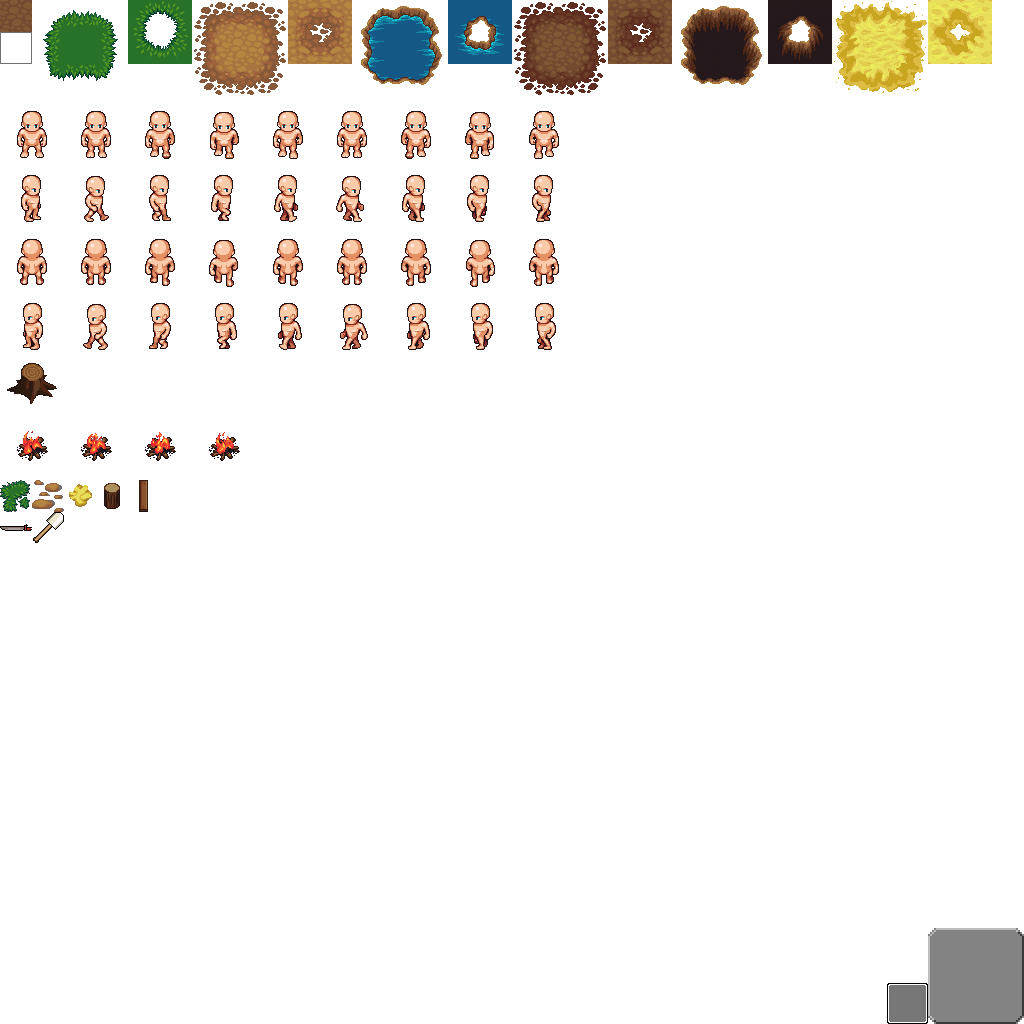
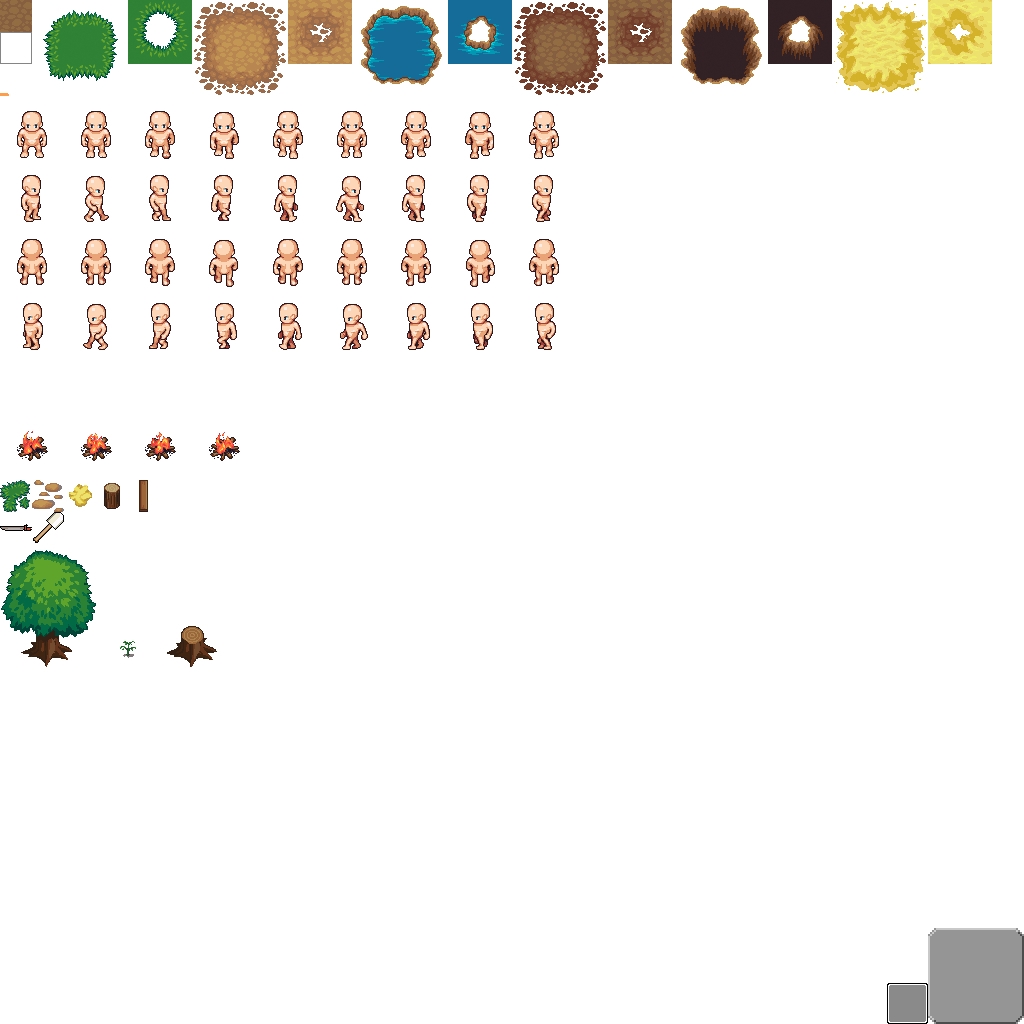
Can plant a sapling that grows into a tree trunk...  hehe:)

Changed region(s): [[0.0, 0.5312, 0.0938, 0.6562], [0.1562, 0.5938, 0.2188, 0.6562], [0.0, 0.3438, 0.0625, 0.4062]]

diff --git a/src/com/madbros/adventurecraft/Textures.java b/src/com/madbros/adventurecraft/Textures.java
@@ -26,6 +26,7 @@ public class Textures {
 	public static Sprite[] waterTextures;
 	public static Sprite[] holeTextures;
 	public static Sprite[] sandTextures;
+	public static Sprite[] saplingTexture;
 	
 	public static Sprite[] characterAnimations;
 	public static Sprite[] fireAnimationTextures;
@@ -33,6 +34,8 @@ public class Textures {
 	public static Sprite[][] menuTextures;
 	public static Sprite cellTexture;
 	public static Sprite selectTexture;
+	public static Sprite saplingItemTexture;
+
 	
 	public static Sprite grassSeedTexture;
 	public static Sprite earthClumpTexture;
@@ -92,8 +95,9 @@ public class Textures {
 				}
 			}
 			
+			saplingTexture = new Sprite[]{new Sprite(atlas, 96, 608, 64, 64)};
 			treeTextures = new Sprite[1];
-			treeTextures[0] = new Sprite(atlas, 0, 352, 64, 64);
+			treeTextures[0] = new Sprite(atlas, 160, 608, 64, 64);
 			
 			menuTextures = new Sprite[3][3];
 			for(int i = 0; i < 3; i++) {
@@ -137,6 +141,7 @@ public class Textures {
 			sandClumpTexture = new Sprite(atlas, TEXTURE_SIZE*2, 480, TEXTURE_SIZE, TEXTURE_SIZE);
 			logTexture = new Sprite(atlas, TEXTURE_SIZE*3, 480, TEXTURE_SIZE, TEXTURE_SIZE);
 			plankTexture = new Sprite(atlas, TEXTURE_SIZE*4, 480, TEXTURE_SIZE, TEXTURE_SIZE);
+			saplingItemTexture = new Sprite(atlas, 112, 624, TEXTURE_SIZE, TEXTURE_SIZE);
 			
 			swordTexture = new Sprite(atlas, TEXTURE_SIZE*0, 512, TEXTURE_SIZE, TEXTURE_SIZE);
 			shovelTexture = new Sprite(atlas, TEXTURE_SIZE*1, 512, TEXTURE_SIZE, TEXTURE_SIZE);

diff --git a/src/com/madbros/adventurecraft/Constants.java b/src/com/madbros/adventurecraft/Constants.java
@@ -92,6 +92,7 @@ public class Constants {
 	public static final int TREE = 6;
 	public static final int HOLE = 7;
 	public static final int DARK_DIRT = 8;
+	public static final int SAPLING = 9;
 	
 	//Block Layers
 	public static final int DARK_DIRT_LAYER = 0;
@@ -126,6 +127,7 @@ public class Constants {
 	public static final int SHOVEL = 6;
 	
 	public static final int SWORD = 7;
+	public static final int SAPLING_ITEM = 8;
 	
 	//Debugger
 	public static final int	BYTES_IN_MEGABYTE = 1048576;
@@ -173,6 +175,7 @@ public class Constants {
 		ITEM_HASH.put(PLANK, new Plank());
 		ITEM_HASH.put(SHOVEL, new Shovel());
 		ITEM_HASH.put(SWORD, new Sword());
+		ITEM_HASH.put(SAPLING_ITEM, new Sapling());
 		
 		TILE_HASH.put(GRASS, new GrassTile());
 		TILE_HASH.put(DIRT, new DirtTile());
@@ -181,6 +184,7 @@ public class Constants {
 		TILE_HASH.put(DARK_DIRT, new DarkDirtTile());
 		TILE_HASH.put(SAND, new SandTile());
 		TILE_HASH.put(AIR, new NoTile());
+		TILE_HASH.put(SAPLING, new SaplingTile());
 		
 		TOP_LEFT_AUTO_TILE_HASH.put(0, TOP_LEFT_TILE);
 		TOP_LEFT_AUTO_TILE_HASH.put(1, TOP_LEFT_TILE);

diff --git a/src/com/madbros/adventurecraft/Items/Sapling.java b/src/com/madbros/adventurecraft/Items/Sapling.java
@@ -1,0 +1,37 @@
+package com.madbros.adventurecraft.Items;
+
+import static com.madbros.adventurecraft.Constants.*;
+
+
+import com.madbros.adventurecraft.Block;
+import com.madbros.adventurecraft.Textures;
+//import com.madbros.adventurecraft.TileTypes.NoTile;
+import com.madbros.adventurecraft.TileTypes.Tile;
+
+public class Sapling extends BlockItem {
+	public Sapling() {
+		id = SAPLING_ITEM;
+		tileId = SAPLING;
+		placeableTileIds = new int[]{GRASS};
+		texture = Textures.saplingItemTexture;
+	}
+	
+	@Override
+	public Sapling createNew() {
+		return new Sapling();
+	}
+
+	@Override
+	public void placeTile(Block hB, Tile tile) {
+		hB.layers[OBJECT_LAYER] = tile;
+//		if(hB.layers[WATER_LAYER].id == HOLE) {
+//			hB.layers[GRASS_LAYER] = tile;
+//			hB.layers[WATER_LAYER] = new NoTile();
+//			hB.layers[LIGHT_DIRT_LAYER] = new NoTile();
+//			hB.collisionTile = null;
+//			hB.cRect = null;
+//		} else {
+//			hB.layers[GRASS_LAYER] = tile;
+//		}
+	}
+}

diff --git a/src/com/madbros/adventurecraft/TileTypes/SaplingTile.java b/src/com/madbros/adventurecraft/TileTypes/SaplingTile.java
@@ -1,0 +1,36 @@
+package com.madbros.adventurecraft.TileTypes;
+
+import static com.madbros.adventurecraft.Constants.*;
+
+import com.madbros.adventurecraft.*;
+import com.madbros.adventurecraft.Utils.Margin;
+
+public class SaplingTile extends CollisionTile {
+	
+	public SaplingTile() {
+		super();
+		currentTexture = 0;
+		textures = Textures.saplingTexture;
+		margin = new Margin(9, 9, 12, 11);
+		id = SAPLING;
+		layer = OBJECT_LAYER;
+		isDiggable = false;
+	}
+	
+	@Override
+	public void render(int x, int y) {
+		textures[currentTexture].draw(x, y, TILE_SIZE * Game.pixelModifier, TILE_SIZE * Game.pixelModifier);
+	}
+	
+	public Tile createNew() {
+		return new SaplingTile();
+	}
+	
+	@Override
+	public void update(int x, int y) {
+		if(Time.getTime() - timeCreated > 3000) {
+			Game.level.activeBlocks[x][y].layers[OBJECT_LAYER] = new TreeTile();
+		}
+		
+	}
+}

diff --git a/src/com/madbros/adventurecraft/TileTypes/Tile.java b/src/com/madbros/adventurecraft/TileTypes/Tile.java
@@ -6,6 +6,7 @@ import org.newdawn.slick.Color;
 
 import com.madbros.adventurecraft.Sprite;
 import com.madbros.adventurecraft.Textures;
+import com.madbros.adventurecraft.Time;
 import com.madbros.adventurecraft.Utils.Helpers;
 import com.madbros.adventurecraft.Utils.Rect;
 
@@ -18,6 +19,7 @@ public abstract class Tile {
 	public boolean isCollidable = false;
 	public boolean isDiggable = true;
 	public boolean isChoppable = false;
+	public long timeCreated = Time.getTime();
 	
 	public int id = AIR;
 	public boolean isMiddleTile = true;
@@ -45,4 +47,8 @@ public abstract class Tile {
 	}
 	
 	public abstract Tile createNew();
+	
+	public void update(int x, int y) {
+		
+	}
 }

diff --git a/src/com/madbros/adventurecraft/Level.java b/src/com/madbros/adventurecraft/Level.java
@@ -77,6 +77,11 @@ public class Level {
 		} else if(renderRect.x2() >= TILES_PER_ROW-CHUNK_SIZE/2 - 1) {
 			getEasternChunks();
 		}
+		for(int x = renderRect.x; x < renderRect.x2(); x++) {
+			for(int y = renderRect.y; y < renderRect.y2(); y++) {
+				activeBlocks[x][y].layers[OBJECT_LAYER].update(x, y);
+			}
+		}
 	}
 	
 	public void render() {

diff --git a/src/com/madbros/adventurecraft/Items/Shovel.java b/src/com/madbros/adventurecraft/Items/Shovel.java
@@ -4,7 +4,7 @@ import static com.madbros.adventurecraft.Constants.*;
 
 import com.madbros.adventurecraft.Game;
 import com.madbros.adventurecraft.Textures;
-import com.madbros.adventurecraft.TileTypes.*;
+
 
 public class Shovel extends ToolItem {
 	public Shovel() {

diff --git a/src/com/madbros/adventurecraft/Inventory.java b/src/com/madbros/adventurecraft/Inventory.java
@@ -60,6 +60,7 @@ public class Inventory {
 		invBar[5].item = new EarthClump();
 		invBar[5].item.stackSize = 99;
 		invBar[6].item = new Shovel();
+		invBar[7].item = new Sapling();
 	}
 	
 	public void update() {
